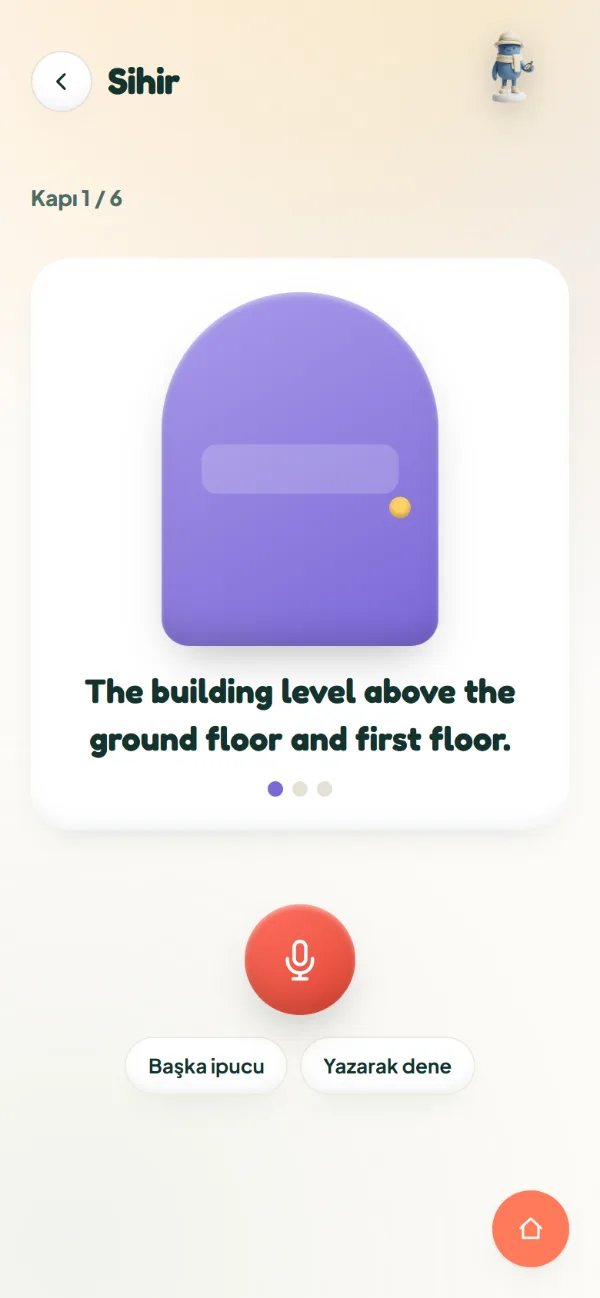
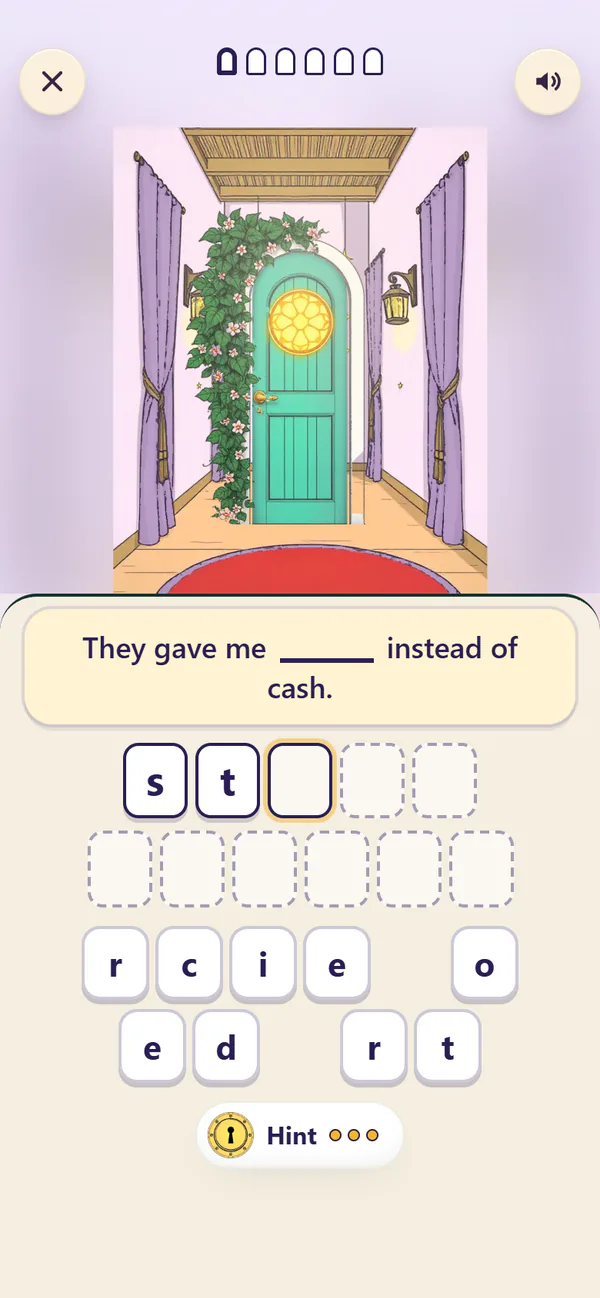
Site: Magic Words described as the new letter-spelling game (EN/TR/FA) + new screenshot
Magic Words v2 went live in the app on 2026-11-22: a sentence with a gap, spell the
missing word with letter tiles, Hint places a letter, each word opens a painted door.
The site still said "say the word out loud" with a microphone.

- build-pages.mjs GAMES_SHOWN (regenerated en/app.html, uygulama.html, fa/app.html):
  EN "Spell the missing word, open the door."
  TR "Eksik kelimeyi harf harf yaz, kapıyı aç."
  FA "کلمهی جاافتاده را حرف به حرف بچین و در را باز کن."
- english.html + studio.html: same TR caption, alt text no longer mentions a microphone.
- screen-game-sihirli.webp: real v2 shot (qa/shots/magic-words-v2-2026-11-21
  en-en-390x844-03-partly.png), 780x1688 -> 600x1298, same size/aspect/name as before.

diff --git a/site/english.html b/site/english.html
@@ -471,7 +471,7 @@
         <figure class="v-gcard gc-order"><div class="v-phone"><img src="assets/app/screen-game-siparis.webp" alt="FE App, Sipariş Hazır! oyunu: müşterinin İngilizce siparişi ve hazırlanacak tepsi" width="600" height="1298" loading="lazy" decoding="async"></div><figcaption><h3>Sipariş Hazır!</h3><p>Müşteriyi dinle, tepsiyi hazırla.</p></figcaption></figure>
         <figure class="v-gcard gc-mystery"><div class="v-phone"><img src="assets/app/screen-game-dava.webp" alt="FE App, Dava Kapandı oyunu: şüpheliler, yerler ve İngilizce ipuçları" width="600" height="1298" loading="lazy" decoding="async"></div><figcaption><h3>Dava Kapandı</h3><p>İpuçlarını oku, kimin yaptığını bul.</p></figcaption></figure>
         <figure class="v-gcard gc-desk"><div class="v-phone"><img src="assets/app/screen-game-pasaport.webp" alt="FE App, Pasaport Masası oyunu: yolcunun söyledikleri ve kontrol edilecek giriş kartı" width="600" height="1298" loading="lazy" decoding="async"></div><figcaption><h3>Pasaport Masası</h3><p>Yolcuyu dinle, karttaki hatayı düzelt.</p></figcaption></figure>
-        <figure class="v-gcard gc-spell"><div class="v-phone"><img src="assets/app/screen-game-sihirli.webp" alt="FE App, Sihirli Kelimeler oyunu: kapalı sihirli kapı, ipucu cümlesi ve mikrofon" width="600" height="1298" loading="lazy" decoding="async"></div><figcaption><h3>Sihirli Kelimeler</h3><p>Kelimeyi sesli söyle, kapıyı aç.</p></figcaption></figure>
+        <figure class="v-gcard gc-spell"><div class="v-phone"><img src="assets/app/screen-game-sihirli.webp" alt="FE App, Sihirli Kelimeler oyunu: boyalı bir sihirli kapı, boşluklu bir İngilizce cümle (They gave me ___ instead of cash.) ve eksik kelimenin harf taşları" width="600" height="1298" loading="lazy" decoding="async"></div><figcaption><h3>Sihirli Kelimeler</h3><p>Eksik kelimeyi harf harf yaz, kapıyı aç.</p></figcaption></figure>
         <figure class="v-gcard gc-cross"><div class="v-phone"><img src="assets/app/screen-game-bulmaca.webp" alt="FE App, Mini Bulmaca oyunu: öğrenilen kelimelerle kurulan bulmaca ve klavye" width="600" height="1298" loading="lazy" decoding="async"></div><figcaption><h3>Mini Bulmaca</h3><p>Öğrendiğin kelimeleri bulmacaya yaz.</p></figcaption></figure>
       </div>
       <div class="v-gmore reveal">

diff --git a/site/studio.html b/site/studio.html
@@ -195,7 +195,7 @@
         <figure class="v-gcard gc-order"><div class="v-phone"><img src="assets/app/screen-game-siparis.webp" alt="FE App, Sipariş Hazır! oyunu: müşterinin İngilizce siparişi ve hazırlanacak tepsi" width="600" height="1298" loading="lazy" decoding="async"></div><figcaption><h3>Sipariş Hazır!</h3><p>Müşteriyi dinle, tepsiyi hazırla.</p></figcaption></figure>
         <figure class="v-gcard gc-mystery"><div class="v-phone"><img src="assets/app/screen-game-dava.webp" alt="FE App, Dava Kapandı oyunu: şüpheliler, yerler ve İngilizce ipuçları" width="600" height="1298" loading="lazy" decoding="async"></div><figcaption><h3>Dava Kapandı</h3><p>İpuçlarını oku, kimin yaptığını bul.</p></figcaption></figure>
         <figure class="v-gcard gc-desk"><div class="v-phone"><img src="assets/app/screen-game-pasaport.webp" alt="FE App, Pasaport Masası oyunu: yolcunun söyledikleri ve kontrol edilecek giriş kartı" width="600" height="1298" loading="lazy" decoding="async"></div><figcaption><h3>Pasaport Masası</h3><p>Yolcuyu dinle, karttaki hatayı düzelt.</p></figcaption></figure>
-        <figure class="v-gcard gc-spell"><div class="v-phone"><img src="assets/app/screen-game-sihirli.webp" alt="FE App, Sihirli Kelimeler oyunu: kapalı sihirli kapı, ipucu cümlesi ve mikrofon" width="600" height="1298" loading="lazy" decoding="async"></div><figcaption><h3>Sihirli Kelimeler</h3><p>Kelimeyi sesli söyle, kapıyı aç.</p></figcaption></figure>
+        <figure class="v-gcard gc-spell"><div class="v-phone"><img src="assets/app/screen-game-sihirli.webp" alt="FE App, Sihirli Kelimeler oyunu: boyalı bir sihirli kapı, boşluklu bir İngilizce cümle (They gave me ___ instead of cash.) ve eksik kelimenin harf taşları" width="600" height="1298" loading="lazy" decoding="async"></div><figcaption><h3>Sihirli Kelimeler</h3><p>Eksik kelimeyi harf harf yaz, kapıyı aç.</p></figcaption></figure>
         <figure class="v-gcard gc-cross"><div class="v-phone"><img src="assets/app/screen-game-bulmaca.webp" alt="FE App, Mini Bulmaca oyunu: öğrenilen kelimelerle kurulan bulmaca ve klavye" width="600" height="1298" loading="lazy" decoding="async"></div><figcaption><h3>Mini Bulmaca</h3><p>Öğrendiğin kelimeleri bulmacaya yaz.</p></figcaption></figure>
       </div>
       <div class="v-gmore reveal">

diff --git a/site/fa/app.html b/site/fa/app.html
@@ -135,7 +135,7 @@
     <figure class="fcard" style="--c:var(--orange-deep)"><div class="scr"><img src="/assets/app/screen-game-siparis.webp" alt="صفحهی بازی در اپ FE: سفارش حاضر!" width="600" height="1298" loading="lazy" decoding="async"></div><figcaption><b>سفارش حاضر!</b><p>به مشتری گوش کن و سینی را آماده کن.</p></figcaption></figure>
     <figure class="fcard" style="--c:var(--purple)"><div class="scr"><img src="/assets/app/screen-game-dava.webp" alt="صفحهی بازی در اپ FE: پرونده مختومه" width="600" height="1298" loading="lazy" decoding="async"></div><figcaption><b>پرونده مختومه</b><p>سرنخها را بخوان و پیدا کن کار چه کسی بوده.</p></figcaption></figure>
     <figure class="fcard" style="--c:var(--g-imm)"><div class="scr"><img src="/assets/app/screen-game-pasaport.webp" alt="صفحهی بازی در اپ FE: میز گذرنامه" width="600" height="1298" loading="lazy" decoding="async"></div><figcaption><b>میز گذرنامه</b><p>به مسافر گوش کن و اشتباه روی کارت را درست کن.</p></figcaption></figure>
-    <figure class="fcard" style="--c:var(--g-career)"><div class="scr"><img src="/assets/app/screen-game-sihirli.webp" alt="صفحهی بازی در اپ FE: کلمات جادویی" width="600" height="1298" loading="lazy" decoding="async"></div><figcaption><b>کلمات جادویی</b><p>کلمه را بلند بگو و در را باز کن.</p></figcaption></figure>
+    <figure class="fcard" style="--c:var(--g-career)"><div class="scr"><img src="/assets/app/screen-game-sihirli.webp" alt="صفحهی بازی در اپ FE: کلمات جادویی" width="600" height="1298" loading="lazy" decoding="async"></div><figcaption><b>کلمات جادویی</b><p>کلمهی جاافتاده را حرف به حرف بچین و در را باز کن.</p></figcaption></figure>
   </div>
   <div class="gmore"><details><summary>و ۱۱ بازی دیگر</summary><ul>
     <li><b>کارهای دنج خانه</b>جملهها را دنبال کن و یک آشپزخانهی نقاشیشده را قدم به قدم مرتب کن.</li>

diff --git a/site/uygulama.html b/site/uygulama.html
@@ -137,7 +137,7 @@
     <figure class="fcard" style="--c:var(--orange-deep)"><div class="scr"><img src="/assets/app/screen-game-siparis.webp" alt="FE App oyun ekranı: Sipariş Hazır!" width="600" height="1298" loading="lazy" decoding="async"></div><figcaption><b>Sipariş Hazır!</b><p>Müşteriyi dinle, tepsiyi hazırla.</p></figcaption></figure>
     <figure class="fcard" style="--c:var(--purple)"><div class="scr"><img src="/assets/app/screen-game-dava.webp" alt="FE App oyun ekranı: Dava Kapandı" width="600" height="1298" loading="lazy" decoding="async"></div><figcaption><b>Dava Kapandı</b><p>İpuçlarını oku, kimin yaptığını bul.</p></figcaption></figure>
     <figure class="fcard" style="--c:var(--g-imm)"><div class="scr"><img src="/assets/app/screen-game-pasaport.webp" alt="FE App oyun ekranı: Pasaport Masası" width="600" height="1298" loading="lazy" decoding="async"></div><figcaption><b>Pasaport Masası</b><p>Yolcuyu dinle, karttaki hatayı düzelt.</p></figcaption></figure>
-    <figure class="fcard" style="--c:var(--g-career)"><div class="scr"><img src="/assets/app/screen-game-sihirli.webp" alt="FE App oyun ekranı: Sihirli Kelimeler" width="600" height="1298" loading="lazy" decoding="async"></div><figcaption><b>Sihirli Kelimeler</b><p>Kelimeyi sesli söyle, kapıyı aç.</p></figcaption></figure>
+    <figure class="fcard" style="--c:var(--g-career)"><div class="scr"><img src="/assets/app/screen-game-sihirli.webp" alt="FE App oyun ekranı: Sihirli Kelimeler" width="600" height="1298" loading="lazy" decoding="async"></div><figcaption><b>Sihirli Kelimeler</b><p>Eksik kelimeyi harf harf yaz, kapıyı aç.</p></figcaption></figure>
   </div>
   <div class="gmore"><details><summary>Ve 11 oyun daha</summary><ul>
     <li><b>Ev İşleri</b>Boyalı bir mutfakta cümleleri takip et, odayı sırayla topla.</li>

diff --git a/site/en/app.html b/site/en/app.html
@@ -135,7 +135,7 @@
     <figure class="fcard" style="--c:var(--orange-deep)"><div class="scr"><img src="/assets/app/screen-game-siparis.webp" alt="FE App game screen: Order Up!" width="600" height="1298" loading="lazy" decoding="async"></div><figcaption><b>Order Up!</b><p>Listen to the customer, fill the tray.</p></figcaption></figure>
     <figure class="fcard" style="--c:var(--purple)"><div class="scr"><img src="/assets/app/screen-game-dava.webp" alt="FE App game screen: Case Closed" width="600" height="1298" loading="lazy" decoding="async"></div><figcaption><b>Case Closed</b><p>Read the clues, find who did it.</p></figcaption></figure>
     <figure class="fcard" style="--c:var(--g-imm)"><div class="scr"><img src="/assets/app/screen-game-pasaport.webp" alt="FE App game screen: Passport Desk" width="600" height="1298" loading="lazy" decoding="async"></div><figcaption><b>Passport Desk</b><p>Listen to the traveller, fix the mistake on the card.</p></figcaption></figure>
-    <figure class="fcard" style="--c:var(--g-career)"><div class="scr"><img src="/assets/app/screen-game-sihirli.webp" alt="FE App game screen: Magic Words" width="600" height="1298" loading="lazy" decoding="async"></div><figcaption><b>Magic Words</b><p>Say the word out loud, open the door.</p></figcaption></figure>
+    <figure class="fcard" style="--c:var(--g-career)"><div class="scr"><img src="/assets/app/screen-game-sihirli.webp" alt="FE App game screen: Magic Words" width="600" height="1298" loading="lazy" decoding="async"></div><figcaption><b>Magic Words</b><p>Spell the missing word, open the door.</p></figcaption></figure>
   </div>
   <div class="gmore"><details><summary>And 11 more games</summary><ul>
     <li><b>Cozy Chores</b>Follow the sentences and tidy a painted kitchen step by step.</li>
